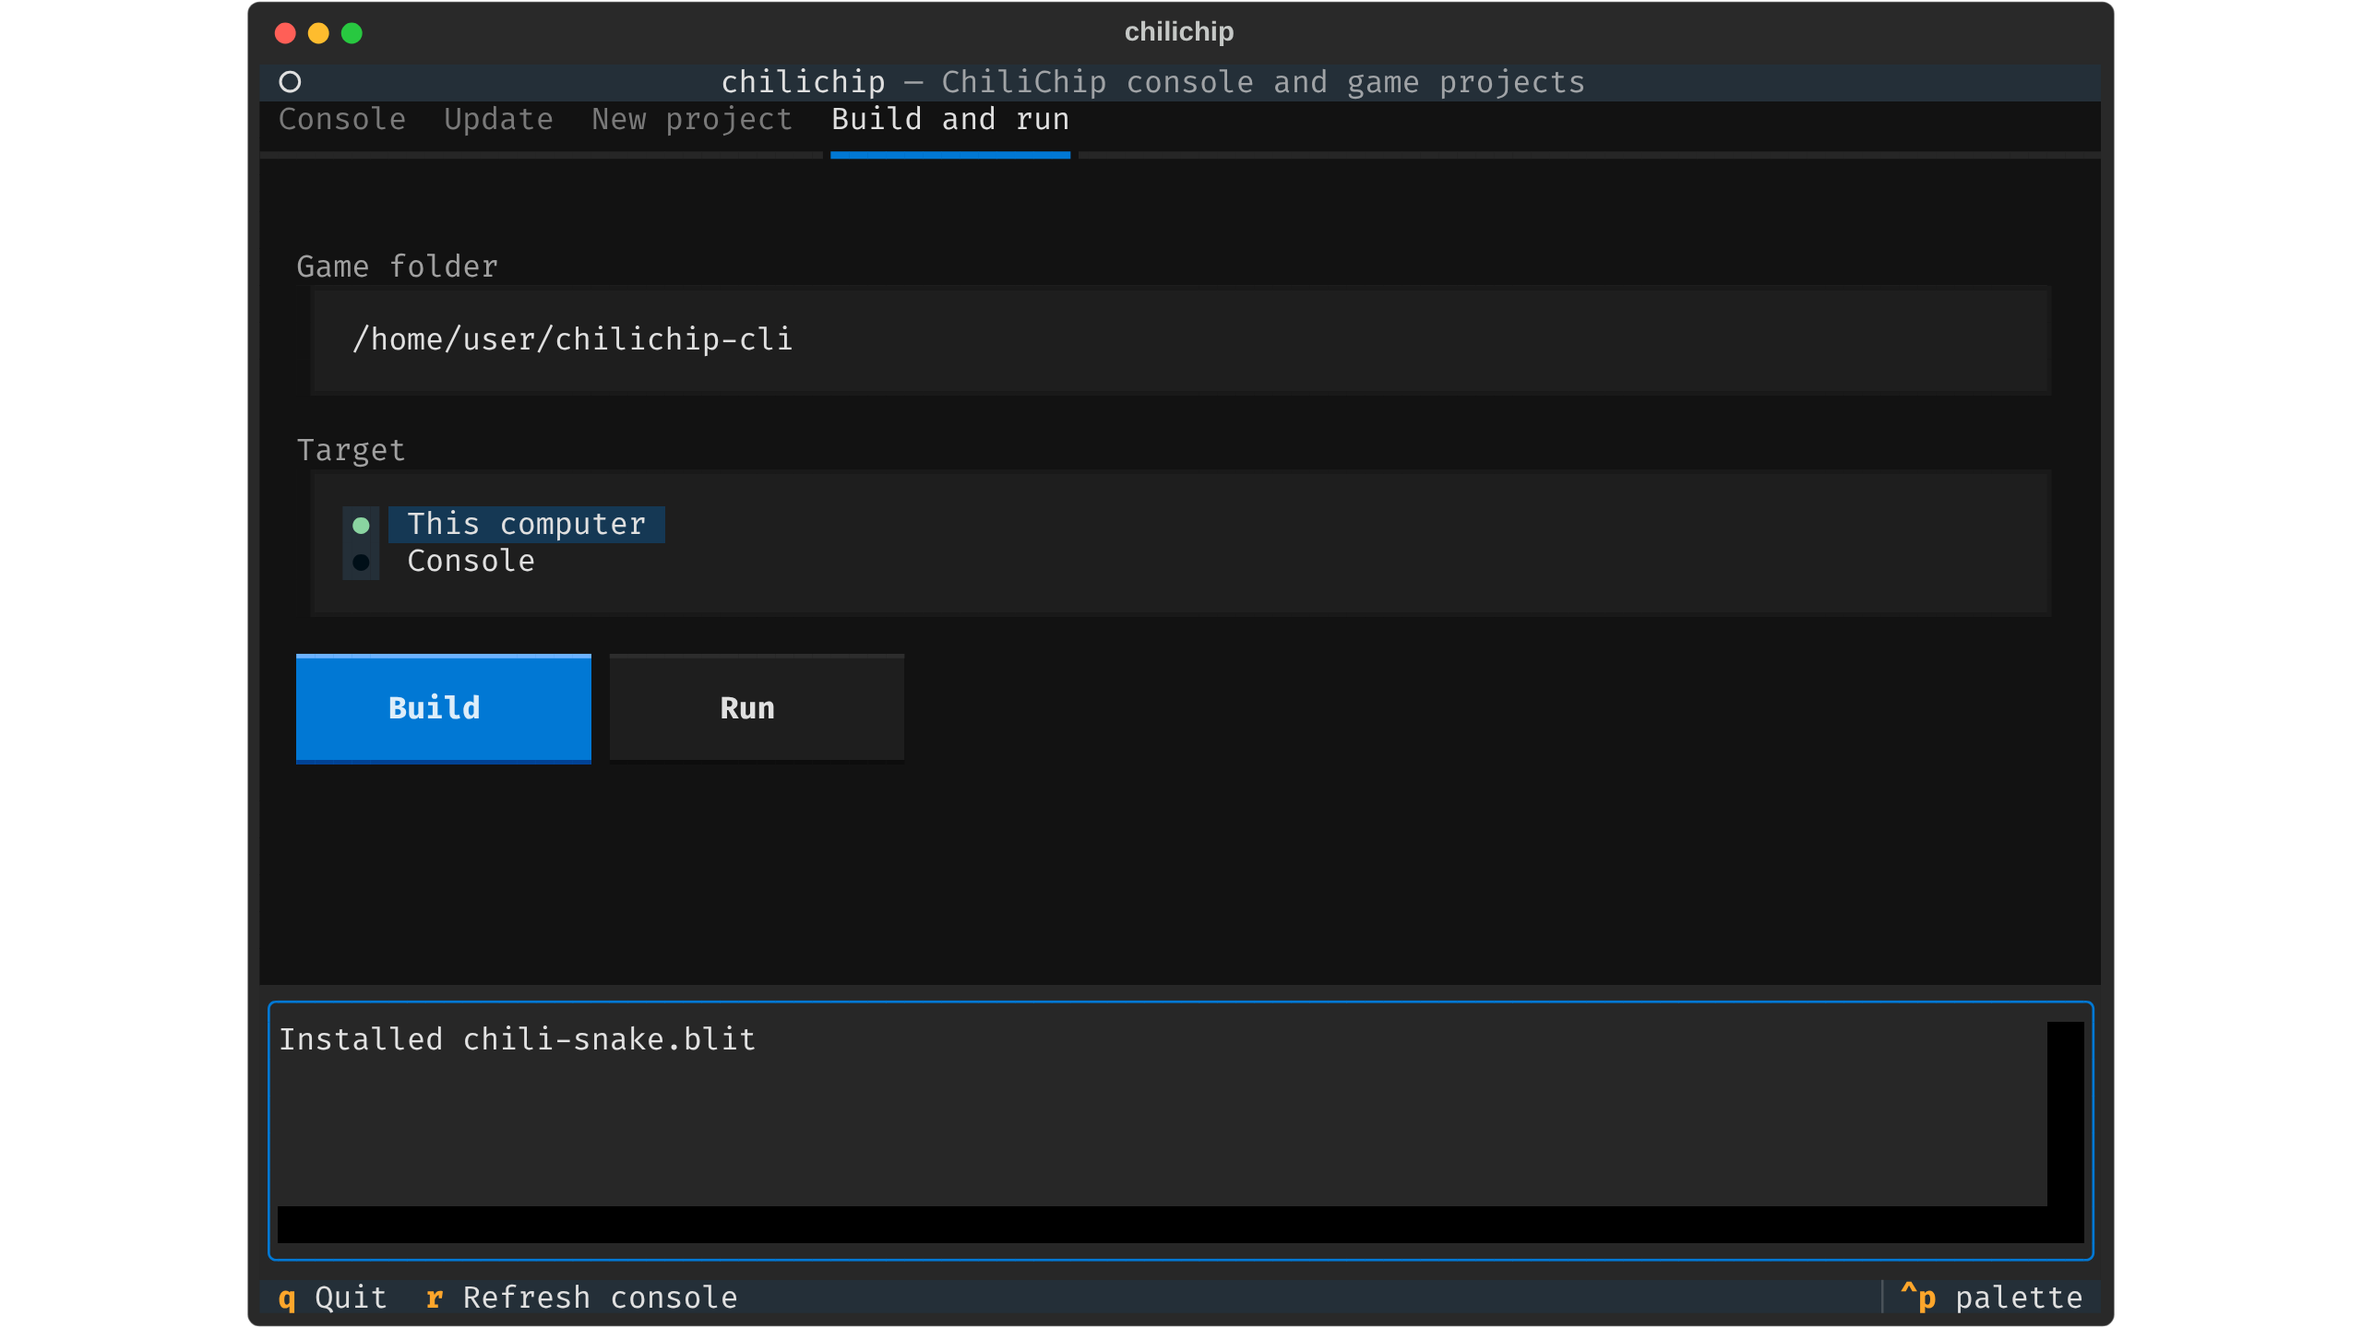
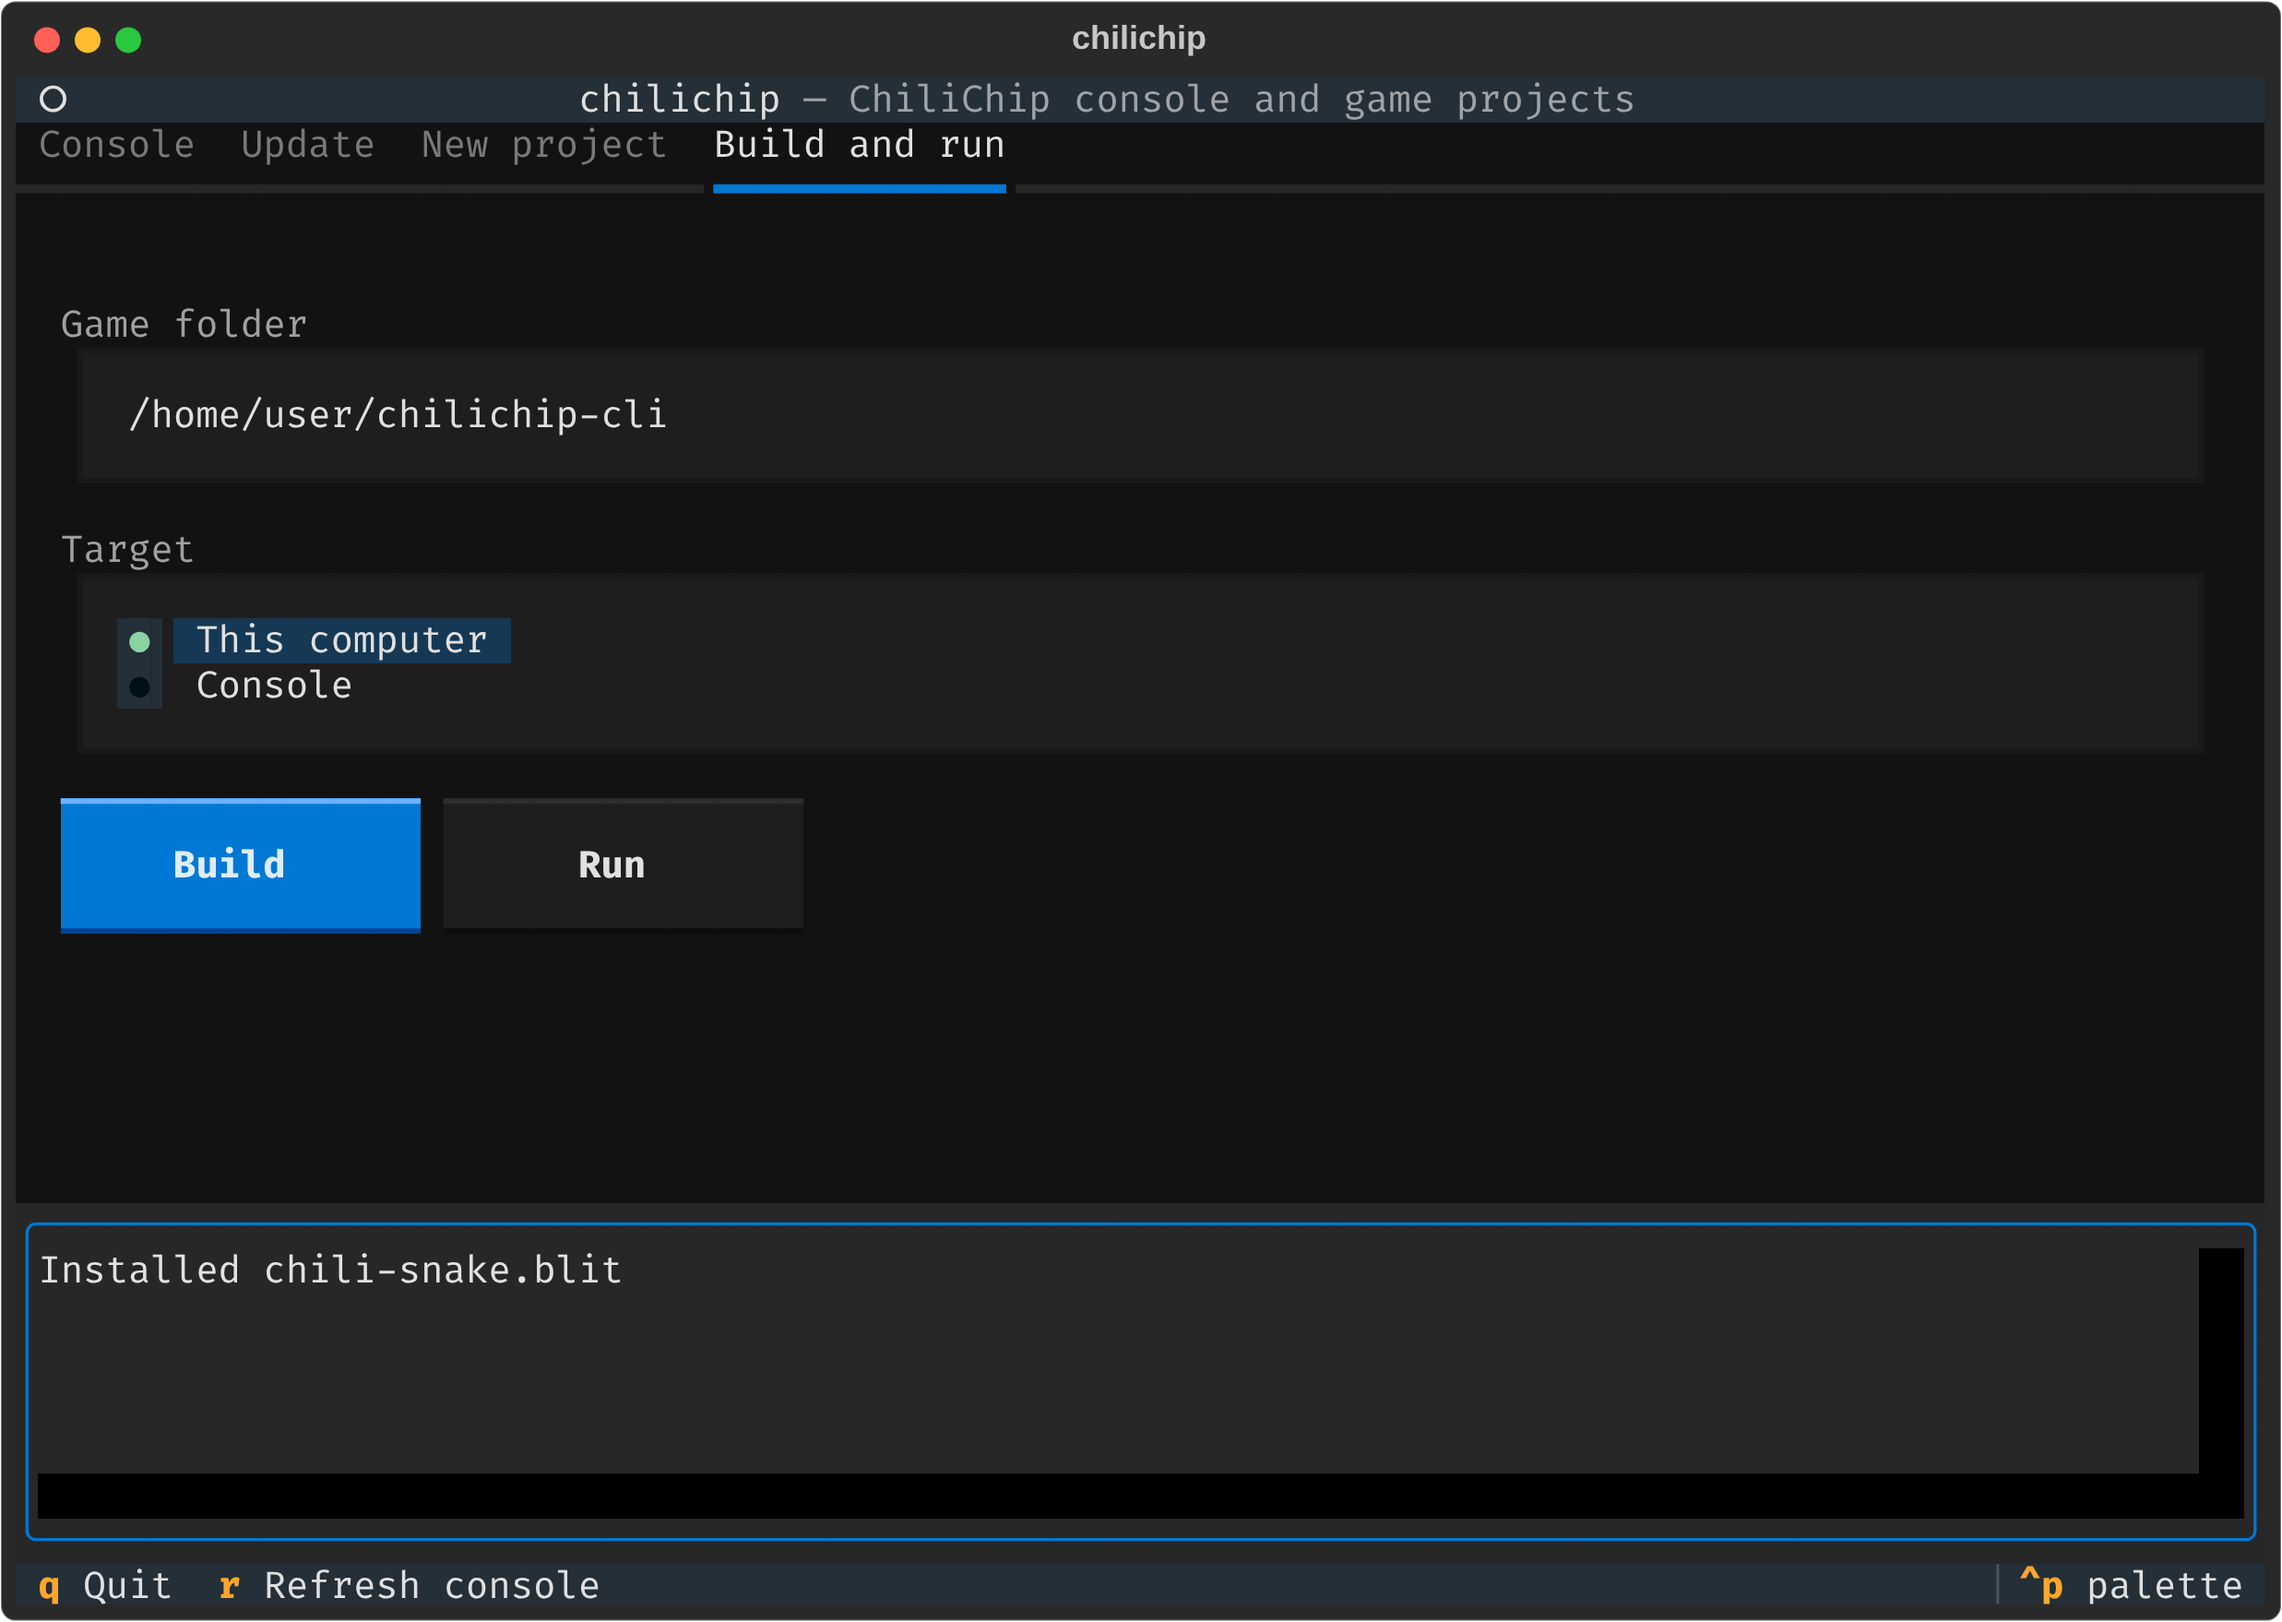
chilichip CLI post: crop screenshots to the window, drop duplicate cover
The TUI screenshots had white bars on the sides. Render each SVG at its
own size with a transparent background instead. The cover image is
already the hero, so it no longer repeats in the body.

diff --git a/content/posts/chilichip-cli/index.md b/content/posts/chilichip-cli/index.md
@@ -7,13 +7,7 @@ tags: ["chilichip-cli", "tools", "console", "game-sdk"]
 authors: ["kacper"]
 ---
 
-Say hello to the **chilichip CLI**! It is one command for everything you do with a chilichip console from your computer. Update the firmware, install games, start a new game and play it. Run it with no arguments and you get a terminal app with menus for the same jobs.
-
-{{< figure
-  src="featured.png"
-  alt="The chilichip TUI showing a connected console and its installed games: ChiliChip OS, Bitsy, Doom Fire and Chili Snake"
-  caption="Run `chilichip` with no command to open the TUI"
->}}
+Say hello to the **chilichip CLI**! It is one command for everything you do with a chilichip console from your computer. Update the firmware, install games, start a new game and play it. Run it with no arguments and you get a terminal app (TUI) with menus for the same jobs, like the Console tab above.
 
 ## What it does
 
@@ -77,7 +71,7 @@ Already up to date? It says so and stops. Got a brand new or broken console? `ch
 
 {{< figure
   src="tui-update.png"
-  alt="The Update tab of the chilichip TUI listing what an update changes"
+  alt="The Update tab of the chilichip TUI with the Check for updates and Update now buttons"
   caption="The same update from the TUI"
 >}}
 
@@ -146,7 +140,7 @@ Missing a tool? `chilichip doctor` checks CMake, the compilers, the SDKs and the
 $ chilichip doctor
 ok  CMake          /usr/bin/cmake
 ok  C++ compiler   /usr/bin/g++
-no  Arm toolchain  sudo apt install gcc-arm-none-eabi ...
+no  Arm toolchain  sudo apt install gcc-arm-none-eabi libnewlib-arm-none-eabi libstdc++-arm-none-eabi-newlib
 ok  32blit-sdk     /home/ada/projects/32blit-sdk
 ok  Console        /dev/ttyACM0
 ```
